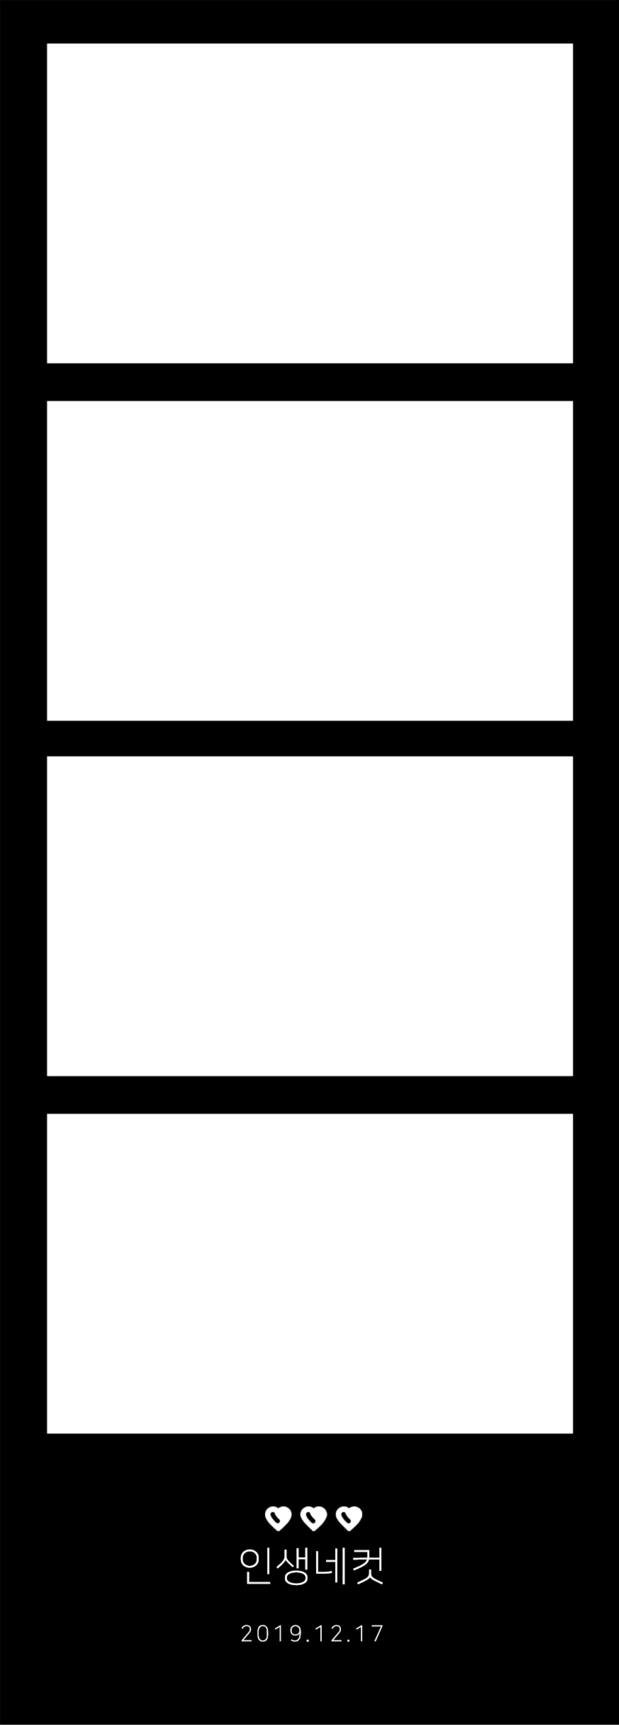
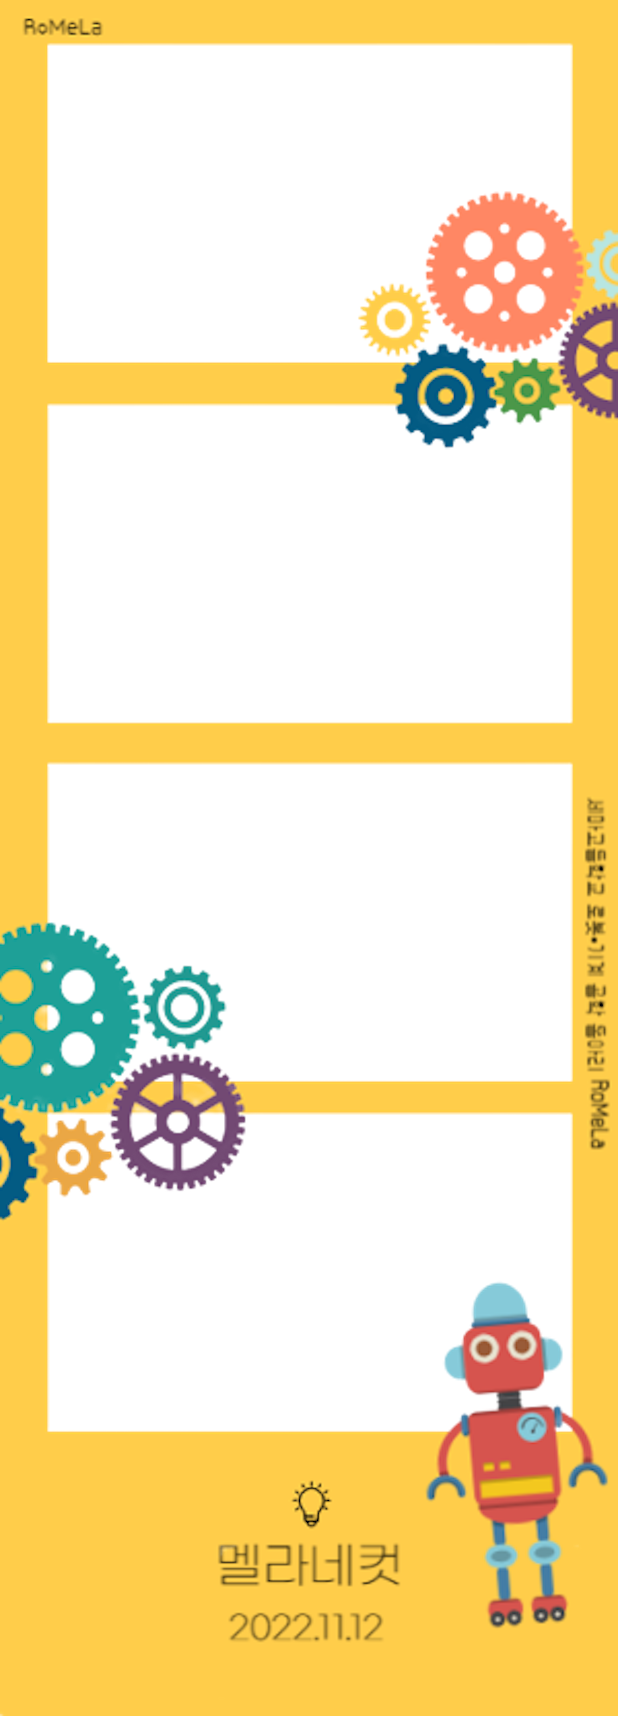
feat: Change Frame and QR Code

diff --git a/semsem/pages/index.js b/semsem/pages/index.js
@@ -6,9 +6,8 @@ import Loading from '../components/loading';
 import { transform } from '../utils/api';
 import axios from 'axios';
 import ProgressBar from '../components/progress_bar';
-import frame1 from '../public/frame1.png';
-import frame2 from '../public/frame2.png';
 import { ImageCard } from '../components/ImageCard';
+import { FontAwesomeIcon } from '@fortawesome/react-fontawesome';
 
 function getWindowSize() {
     const { innerWidth, innerHeight } = window;
@@ -28,6 +27,8 @@ export default function Home() {
     const [progress, setProgress] = useState(0);
     const [show, setShow] = useState(false);
     const [frame, setFrame] = useState(0);
+    const [changeFrame, setChangeFrame] = useState(false);
+    // const [waitWebcam, setWaitWebcam] = useState(false);
 
     useEffect(() => {
         setWindowSize(getWindowSize());
@@ -56,6 +57,8 @@ export default function Home() {
                 heigth: webcamRef.current.props.heigth,
             };
             setImageSize(image_info);
+
+            console.log('webcam setting up');
         }
     }, [webcamRef]);
 
@@ -132,7 +135,7 @@ export default function Home() {
         setProgress(0);
     };
 
-    const changeFrame = (idx) => {
+    const changeFrameOnClick = (idx) => {
         setFrame(idx);
     };
 
@@ -160,36 +163,53 @@ export default function Home() {
                             <div className="fixed bottom-10">
                                 <button
                                     onClick={() => capture()}
-                                    className="bg-gray-300 w-20 h-20 hover:bg-gray-700 text-white font-bold py-2 px-4 rounded-full border-4 border-gray-500"
+                                    className={`w-20 h-20 hover:bg-gray-700 py-2 px-2 rounded-full border-4 border-gray-500 
+                                         bg-gray-300 `}
                                 ></button>
                             </div>
 
                             <div className="fixed  bottom-10 right-10">
-                                <Image
-                                    src={
-                                        'https://cdn-icons-png.flaticon.com/512/3086/3086329.png'
-                                    }
-                                    width={100}
-                                    height={100}
-                                />
+                                {/* <div className="bg-indigo-100 w-12 h-12 hover:bg-indigo-500 p-2 rounded-full">
+                                    <Image
+                                        src={'/frame-icon.png'}
+                                        width={100}
+                                        height={100}
+                                    />
+                                </div> */}
+                                <button
+                                    onClick={() => setChangeFrame(!changeFrame)}
+                                    className="relative inline-block text-lg group"
+                                >
+                                    <span className="relative z-10 block px-5 py-3 overflow-hidden font-medium leading-tight text-gray-800 transition-colors duration-300 ease-out border-2 border-gray-900 rounded-lg group-hover:text-white">
+                                        <span className="absolute inset-0 w-full h-full px-5 py-3 rounded-lg bg-gray-50"></span>
+                                        <span className="absolute left-0 w-48 h-48 -ml-2 transition-all duration-300 origin-top-right -rotate-90 -translate-x-full translate-y-12 bg-gray-900 group-hover:-rotate-180 ease"></span>
+                                        <span className="relative">
+                                            {changeFrame
+                                                ? 'Hide Frames'
+                                                : 'Change Frame'}
+                                        </span>
+                                    </span>
+                                    <span className="absolute bottom-0 right-0 w-full h-12 -mb-1 -mr-1 transition-all duration-200 ease-linear bg-gray-900 rounded-lg group-hover:mb-0 group-hover:mr-0"></span>
+                                </button>
                             </div>
-
-                            {/* <div className="fixed bottom-1">
-                                <div class="w-[100vw] flex flex-row justify-center space-x-3 p-5 -ml-3">
-                                    <ImageCard
-                                        imgSrc={frame1}
-                                        onClickEvent={changeFrame}
-                                        idx={0}
-                                        selected={frame == 0}
-                                    />
-                                    <ImageCard
-                                        imgSrc={frame2}
-                                        onClickEvent={changeFrame}
-                                        idx={1}
-                                        selected={frame == 1}
-                                    />
+                            {changeFrame && (
+                                <div className="fixed bottom-5">
+                                    <div className="flex flex-row justify-center space-x-3 p-5 -ml-3">
+                                        {['/frame1.png', '/frame2.png'].map(
+                                            (src, idx) => (
+                                                <ImageCard
+                                                    imgSrc={src}
+                                                    onClickEvent={
+                                                        changeFrameOnClick
+                                                    }
+                                                    idx={idx}
+                                                    selected={frame == idx}
+                                                />
+                                            ),
+                                        )}
+                                    </div>
                                 </div>
-                            </div> */}
+                            )}
                         </div>
                     ) : (
                         <div className="relative w-full  h-full flex justify-center items-center">

diff --git a/semsem/components/image_grid.js b/semsem/components/image_grid.js
@@ -1,25 +1,32 @@
-import Webcam from "react-webcam";
-import Image from "next/image";
+import Webcam from 'react-webcam';
+import Image from 'next/image';
 
 const ImageGrid = ({ images, imageSize, windowSize, webcamRef }) => {
     return (
-        <div className=' grid grid-cols-2 grid-rows-2'>
+        <div className=" grid grid-cols-2 grid-rows-2">
             {images.map((image, i) => (
-                <div key={i} className='h-full bg-black p-0 m-0  flex justify-center align-center'>
-                    {image != "" ? (
-                        <Image src={image} height={imageSize.height} width={imageSize.width} />
-                    ) : i == 0 || images[i - 1] != "" ? (
+                <div
+                    key={i}
+                    className="h-full bg-black p-0 m-0  flex justify-center align-center"
+                >
+                    {image != '' ? (
+                        <Image
+                            src={image}
+                            height={imageSize.height}
+                            width={imageSize.width}
+                        />
+                    ) : i == 0 || images[i - 1] != '' ? (
                         <Webcam
                             ref={webcamRef}
                             audio={false}
                             mirrored={true}
-                            screenshotFormat='image/jpeg'
+                            screenshotFormat="image/jpeg"
                             width={windowSize.width / 2}
                             height={windowSize.height / 2}
-                            videoConstraints={{ facingMode: "user" }}
+                            videoConstraints={{ facingMode: 'user' }}
                         />
                     ) : (
-                        <div className='bg-gray-700 w-full h-full text-white hover:bg-gray-800'></div>
+                        <div className="bg-gray-700 w-full h-full text-white hover:bg-gray-800"></div>
                     )}
                 </div>
             ))}

diff --git a/semsem/components/ImageCard.js b/semsem/components/ImageCard.js
@@ -3,16 +3,18 @@ import Image from 'next/image';
 const ImageCard = ({ imgSrc, onClickEvent, idx, selected }) => {
     return (
         <div
-            className="flex flex-col items-center justify-center padding-3 text-white text-xl "
+            key={idx}
+            className={`flex flex-col items-center justify-center padding-3 text-white text-xl rounded-md overflow-hidden ${
+                selected && 'border-4 border-rose-600 border-dashed'
+            }`}
             onClick={() => onClickEvent(idx)}
         >
             <Image
                 className="cursor-pointer transform transition hover:scale-105 duration-300 ease-out"
                 src={imgSrc}
-                height={500}
-                width={(500 / 1722) * 618}
+                height={450}
+                width={(450 / 1722) * 618}
             />
-            {selected && 'selected!'}
         </div>
     );
 };

diff --git a/caricature/restapi/app/main.py b/caricature/restapi/app/main.py
@@ -61,8 +61,10 @@ def resize_image_fit_frame(image, target_width):
     return image
 
 
-def image_frame(imgs):
-    background = Image.open("./frame.png")
+def make_image_frame(imgs, frame):
+
+    frames = ["./romela_frame.png", "./frame.png"]
+    background = Image.open(frames[int(frame)])
     w, original_h = background.size
     # w, h = (618, 365)
     h = original_h / 4.7
@@ -112,7 +114,7 @@ def predict_for_web():
         results.append(anime_img)   
 
 
-    result_img = image_frame(results)
+    result_img = make_image_frame(results, frame)
 
     timestamp = time.time()
     file_name = f"{int(timestamp*100)}.png"
